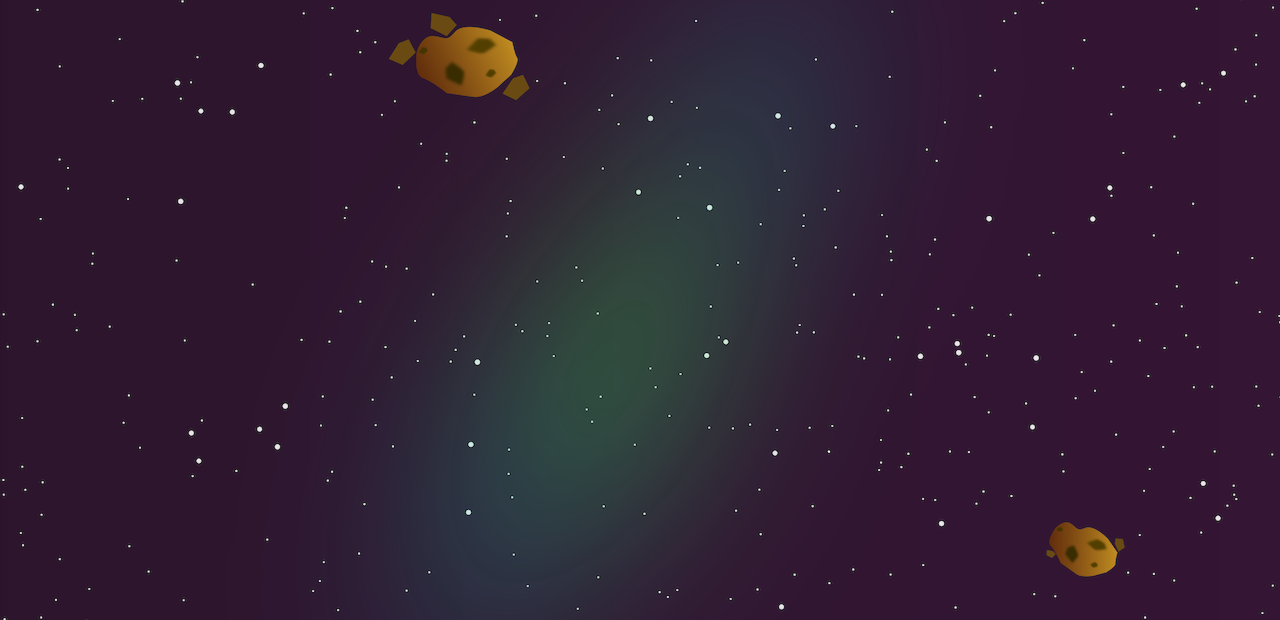
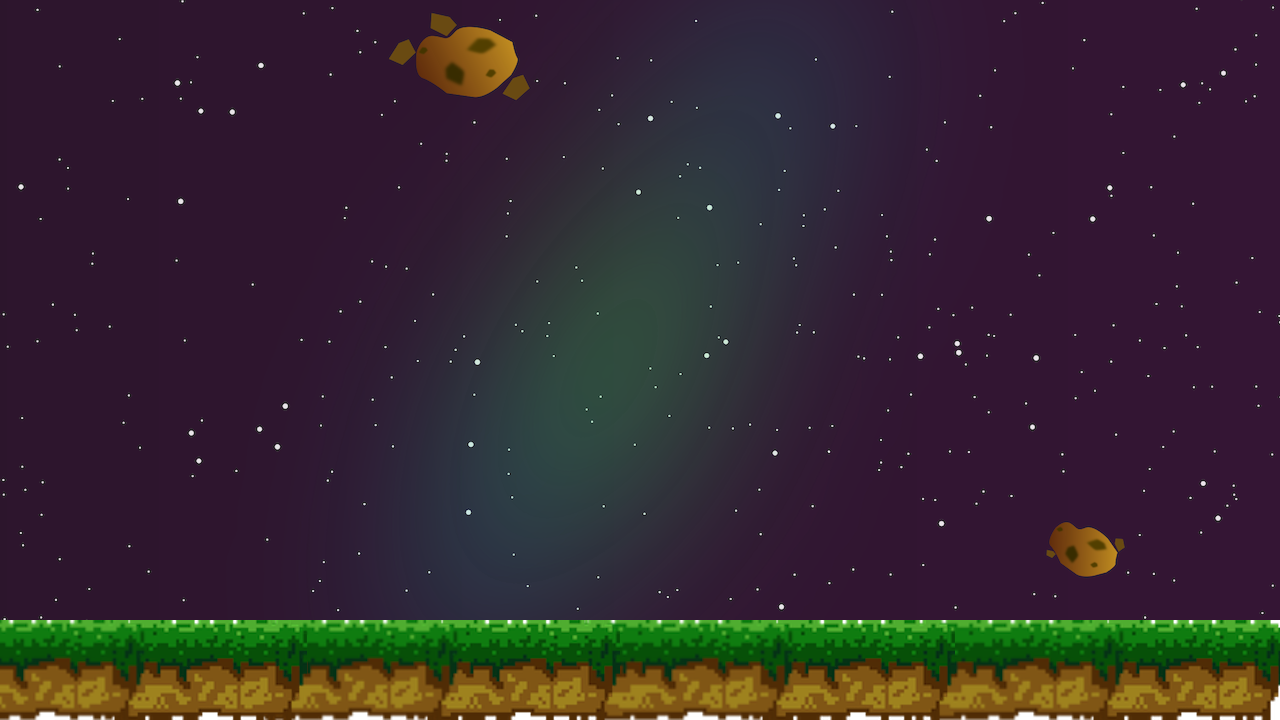
Add Ground Sprite

diff --git a/Level.java b/Level.java
@@ -81,7 +81,7 @@ public abstract class Level {
   boolean inPlay;
   boolean failedLevel;
   boolean wonLevel;
-  boolean restarted;
+  boolean endedLevel;
 
 //---------------------------------------------------------------------------------
 
@@ -124,7 +124,7 @@ public abstract class Level {
     this.inPlay = true;
     this.failedLevel = false;
     this.wonLevel = false;
-    this.restarted = false;
+    this.endedLevel = false;
 
     this.window.setVisible(true);
     this.runGameLoop();
@@ -264,7 +264,7 @@ public abstract class Level {
 //---------------------------------------------------------------------------------
   
   public void endLevel() {
-    while (!this.restarted) {
+    while (!this.endedLevel) {
       // Display death menu
       this.window.repaint();
       try {
@@ -525,7 +525,7 @@ public abstract class Level {
 
       // Draw Ground
       g.setColor(Color.GREEN);
-      g.fillRect(0, level.FRAME_HEIGHT-100, level.FRAME_WIDTH, 100);
+      //g.fillRect(0, level.FRAME_HEIGHT-100, level.FRAME_WIDTH, 100);
       
       // Draw platforms, walls, and end checkpoint
       g.setColor(Color.GRAY);
@@ -706,13 +706,12 @@ public abstract class Level {
       // If player is in menu
       else if (level.failedLevel) {
         if (key == KeyEvent.VK_SPACE) {
-          level.restarted = true;
+          level.endedLevel = true;
         }
       }
       else if (level.wonLevel) {
         if (key == KeyEvent.VK_SPACE) {
-          level.wonLevel = false;
-          level.inPlay = true;
+          level.endedLevel = true;
         }
       }
       

diff --git a/NewMain.java b/NewMain.java
@@ -11,7 +11,8 @@ public class NewMain {
   static final int FRAME_HEIGHT = 720;
   
   // Level end conditions
-  static boolean[] died = new boolean[1];
+  static Level[] levels = new Level[4];
+  static boolean died;
 
 
   // MAIN METHOD
@@ -22,13 +23,11 @@ public class NewMain {
     window.setDefaultCloseOperation(JFrame.EXIT_ON_CLOSE);
     window.setVisible(true);
     
-    Level level1;
-
     do {
-      level1 = new Level1(window);
-      died[0] = level1.myMain();
+      levels[0] = new Level1(window);
+      died = levels[0].myMain();
       
-    } while (died[0]);
+    } while (died);
     
   }
 
